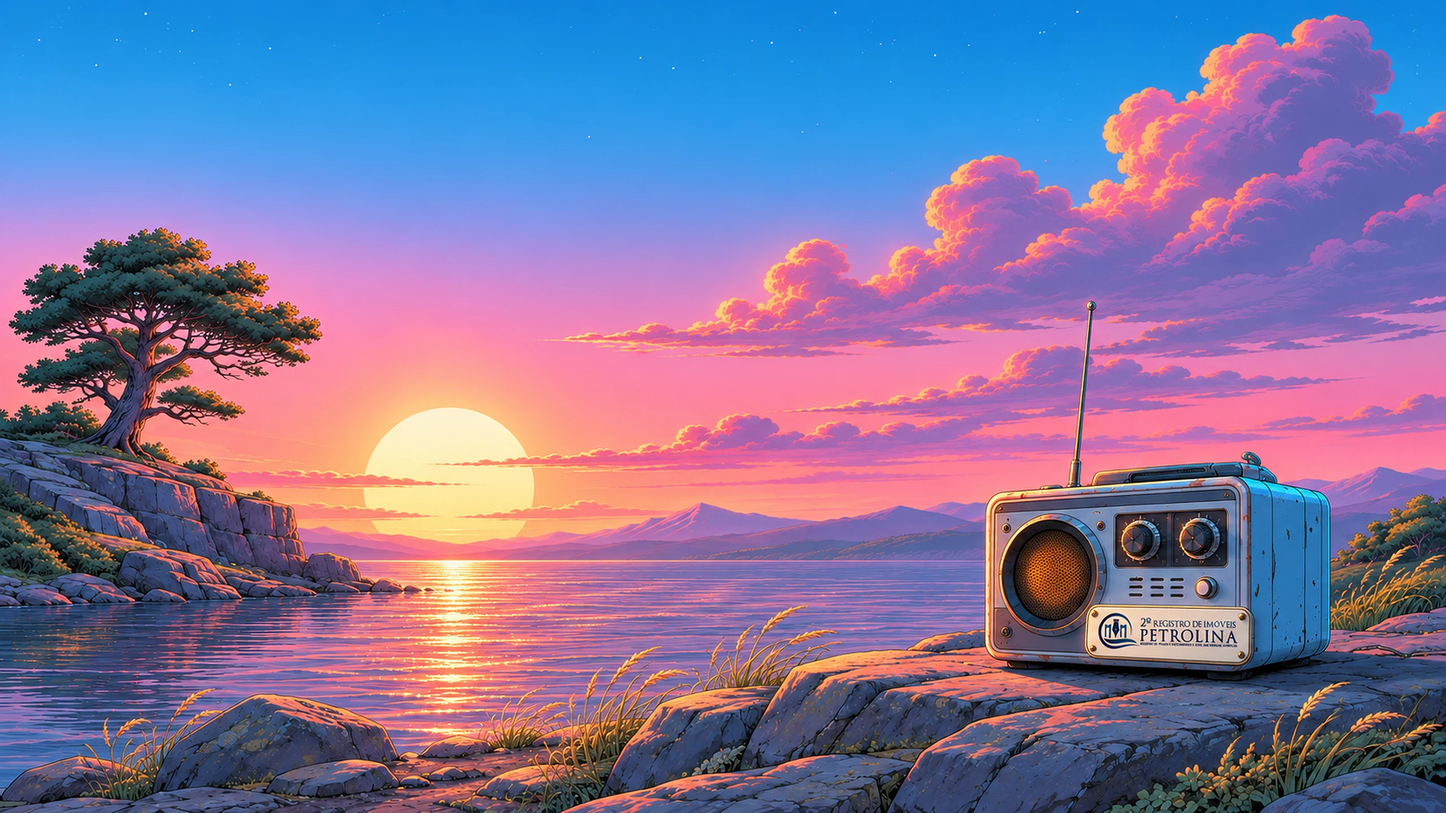
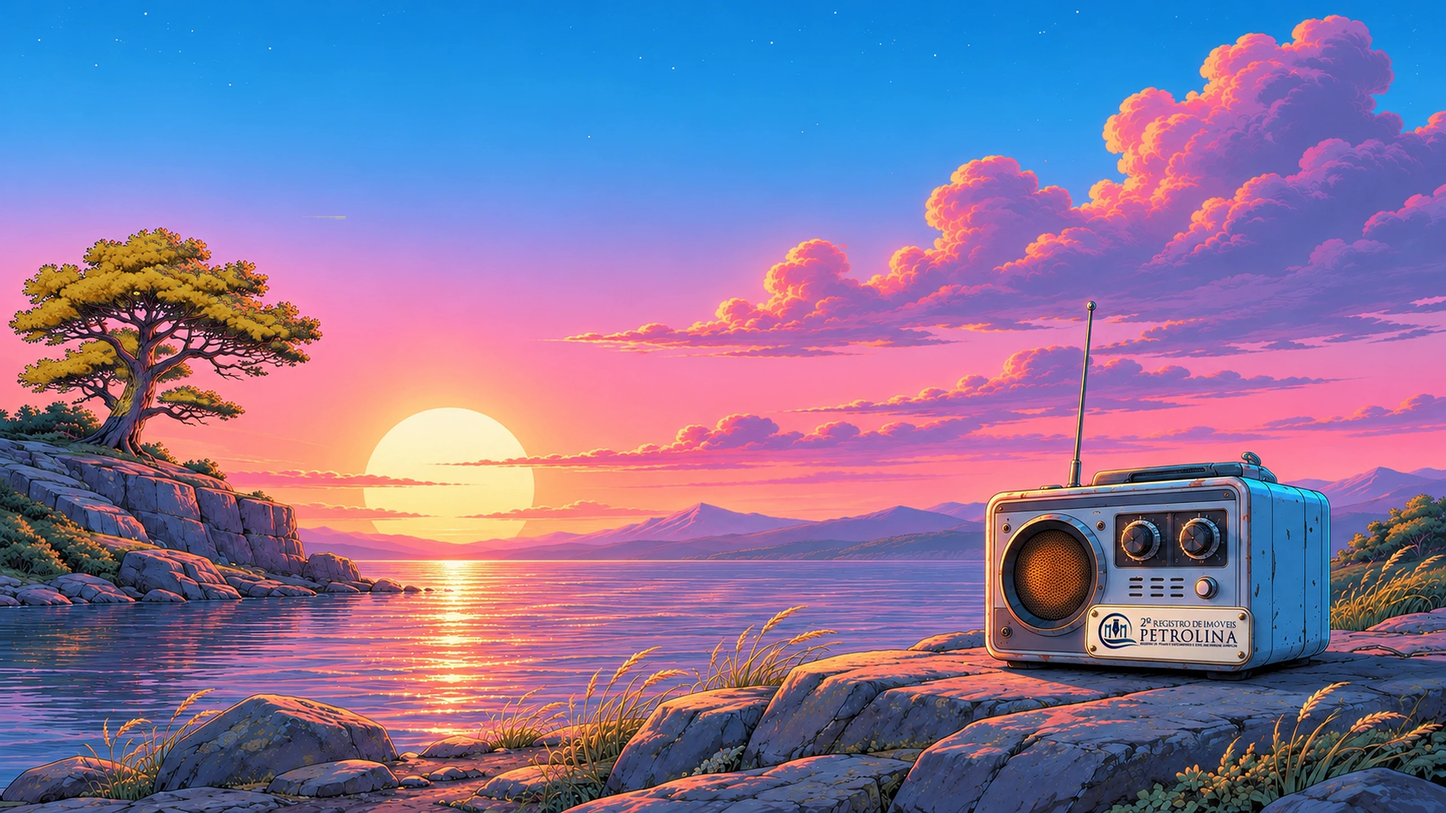
Fundo: árvore em ipê-amarelo com pétalas ao vento e luz piscando na antena do rádio

Changed region(s): [[0.0, 0.2812, 0.2188, 0.5312]]

diff --git a/index.html b/index.html
@@ -3,7 +3,7 @@
 <head>
 <base target="_top">
 <meta charset="utf-8">
-<meta http-equiv="Content-Security-Policy" content="default-src 'none'; script-src 'sha256-FoiGdDPJgJVLWg2DCoioj2+ToZbYSx63BUAc50UsOqQ=' https://cdn.jsdelivr.net/npm/echarts@5.5.1/; style-src 'self' 'unsafe-inline'; img-src 'self' data: blob:; connect-src https://script.google.com https://script.googleusercontent.com; base-uri 'none'; form-action 'none'; object-src 'none'; upgrade-insecure-requests">
+<meta http-equiv="Content-Security-Policy" content="default-src 'none'; script-src 'sha256-fcTfLZY6o/5iOW6nZwKyWu3GQ2QQTPAsfl5Rxt/9zMg=' https://cdn.jsdelivr.net/npm/echarts@5.5.1/; style-src 'self' 'unsafe-inline'; img-src 'self' data: blob:; connect-src https://script.google.com https://script.googleusercontent.com; base-uri 'none'; form-action 'none'; object-src 'none'; upgrade-insecure-requests">
 <meta name="viewport" content="width=device-width, initial-scale=1">
 <title>Sentimentos</title>
 <meta name="referrer" content="no-referrer">
@@ -281,7 +281,7 @@
   body.login { background: #5b4a8a; overflow: hidden; }
   body.login::before {          /* foto com aproximação lenta (efeito Ken Burns) */
     content: ''; position: fixed; inset: 0; z-index: 0;
-    background: #5b4a8a url('https://2ripetrolina.github.io/dashboard-protocolos/fundo-login.webp?v=3') 74% 60% / cover no-repeat;   /* ?v= força baixar a imagem nova */
+    background: #5b4a8a url('https://2ripetrolina.github.io/dashboard-protocolos/fundo-login.webp?v=4') 74% 60% / cover no-repeat;   /* ?v= força baixar a imagem nova */
     animation: kenburns 48s ease-in-out infinite alternate;
     will-change: transform;
     backface-visibility: hidden;   /* evita borrão de reamostragem durante a animação */
@@ -1559,6 +1559,89 @@ const VFX = (() => {
     ctx.globalAlpha = 1;
   }
 
+  // ── Antena do rádio: luz piscando na bolinha da ponta, com ondas de sinal ──
+  const ANTENA = { u: .7548, v: .3762 };
+  function desenharAntena(seg) {
+    const esc = G.esc;
+    const [x, y] = naTela(ANTENA.u, ANTENA.v);
+    const ciclo = 2.4, f = (seg % ciclo) / ciclo;
+    // duas piscadas rápidas por ciclo, como luz de torre
+    const pisca = Math.max(0, Math.sin(Math.min(1, f / .14) * Math.PI)) + .8 * Math.max(0, Math.sin(Math.min(1, Math.max(0, f - .2) / .14) * Math.PI));
+    const base = .32 + .12 * Math.sin(seg * 3);
+    const a = Math.min(1, base + pisca);
+    const R = 34 * esc * (G.dw / 2560);
+    let gr = ctx.createRadialGradient(x, y, 0, x, y, R * 2.2);
+    gr.addColorStop(0, 'rgba(255,236,226,' + a + ')');
+    gr.addColorStop(.12, 'rgba(255,250,240,' + a + ')');
+    gr.addColorStop(.3, 'rgba(255,88,76,' + (a * .9) + ')');
+    gr.addColorStop(.5, 'rgba(255,70,90,' + (a * .25) + ')');
+    gr.addColorStop(1, 'rgba(255,60,90,0)');
+    ctx.globalAlpha = 1;
+    ctx.fillStyle = gr;
+    ctx.beginPath(); ctx.arc(x, y, R * 2.2, 0, 6.283); ctx.fill();
+    // ondas de rádio saindo da ponta
+    ctx.lineWidth = 1.2;
+    for (let k = 0; k < 3; k++) {
+      const p = ((seg / 3.2) + k / 3) % 1;
+      ctx.globalAlpha = (1 - p) * .35;
+      ctx.strokeStyle = 'rgb(255,214,220)';
+      ctx.beginPath(); ctx.arc(x, y, R * (.8 + p * 5), -Math.PI * .85, -Math.PI * .15); ctx.stroke();
+    }
+    ctx.globalAlpha = 1;
+  }
+
+  // ── Ipê: pétalas amarelas soltando da copa e indo com o vento ──
+  const COPA = { u0: .015, u1: .215, v0: .30, v1: .48 };
+  const petala = document.createElement('canvas');
+  petala.width = 24; petala.height = 24;
+  (() => {
+    const p = petala.getContext('2d');
+    p.translate(12, 12);
+    const pg = p.createLinearGradient(-6, -9, 4, 10);
+    pg.addColorStop(0, '#fffbe2'); pg.addColorStop(.45, '#ffdc4e'); pg.addColorStop(1, '#e6a018');
+    p.fillStyle = pg; p.strokeStyle = 'rgba(154,95,14,.8)'; p.lineWidth = 1;
+    p.beginPath();
+    p.moveTo(0, 10);
+    p.bezierCurveTo(-7, 5, -9, -3, -6, -8);
+    p.bezierCurveTo(-3, -11, -1, -9, 0, -7);
+    p.bezierCurveTo(1, -9, 3, -11, 6, -8);
+    p.bezierCurveTo(9, -3, 7, 5, 0, 10);
+    p.closePath(); p.fill(); p.stroke();
+  })();
+  let petalas = [];
+  function novaPetala(espalhar) {
+    return {
+      u: rnd(COPA.u0, COPA.u1), v: rnd(COPA.v0, COPA.v1),
+      du: rnd(.10, .26), dv: rnd(.16, .34),            // destino relativo (vento para a direita e para baixo)
+      vida: espalhar ? rnd(0, 9) : 0, dur: rnd(7, 12), atraso: espalhar ? 0 : rnd(0, 4),
+      giro: rnd(1.5, 3.5) * (Math.random() < .5 ? -1 : 1), vira: rnd(1.6, 3.2), fase: rnd(0, 6.28),
+      tam: rnd(.75, 1.25),
+    };
+  }
+  function desenharPetalas(dt, seg) {
+    if (!petalas.length) petalas = Array.from({ length: 16 }, () => novaPetala(true));
+    const esc = G.esc, unid = G.dw / 1672;
+    ctx.globalCompositeOperation = 'source-over';
+    petalas.forEach((p, i) => {
+      if (p.atraso > 0) { p.atraso -= dt; return; }
+      p.vida += dt;
+      if (p.vida >= p.dur) { petalas[i] = novaPetala(false); return; }
+      const t = p.vida / p.dur;
+      const balanco = Math.sin(t * 9 + p.fase) * .012;      // zigue-zague ao cair
+      const [x, y] = naTela(p.u + p.du * t + balanco, p.v + p.dv * (t * t * .6 + t * .4));
+      ctx.globalAlpha = Math.min(1, t / .06, (1 - t) / .25) * .95;
+      const s = 9 * p.tam * unid * esc;
+      ctx.save();
+      ctx.translate(x, y);
+      ctx.rotate(seg * p.giro + p.fase);
+      ctx.scale(.3 + .7 * Math.abs(Math.sin(seg * p.vira + p.fase)), 1);
+      ctx.drawImage(petala, -s / 2, -s / 2, s, s);
+      ctx.restore();
+    });
+    ctx.globalAlpha = 1;
+    ctx.globalCompositeOperation = 'lighter';
+  }
+
   function dimensionar() {
     dpr = Math.min(window.devicePixelRatio || 1, 2);
     W = innerWidth; H = innerHeight;
@@ -1574,6 +1657,7 @@ const VFX = (() => {
   function quadro(t) {
     if (!rodando) return;
     if (!document.body.classList.contains('login')) { rodando = false; return; }
+    if (innerWidth !== W || innerHeight !== H) dimensionar();   // janela mudou (ex.: barra do navegador no celular)
     const dt = Math.min(.05, (t - (ult || t)) / 1000);
     ult = t;
     const seg = t / 1000;
@@ -1581,6 +1665,8 @@ const VFX = (() => {
     ctx.globalCompositeOperation = 'lighter';
 
     desenharSol(seg, dt);
+    desenharAntena(seg);
+    desenharPetalas(dt, seg);
 
     // estrelas cintilando no alto do céu
     estrelas.forEach((e) => {
